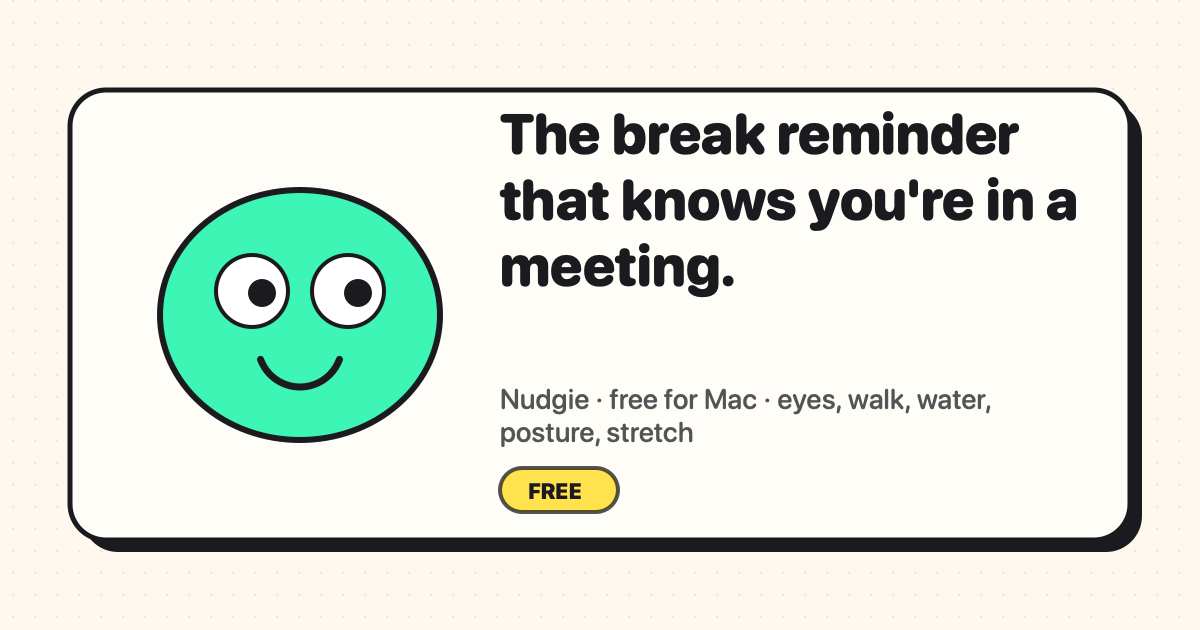
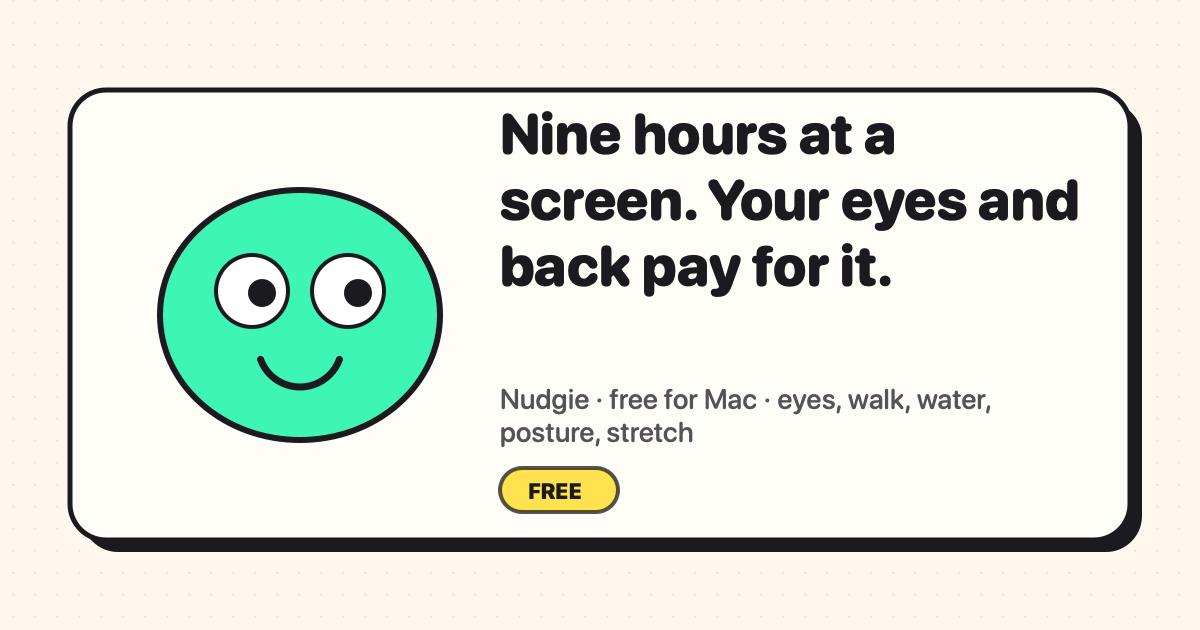
copy(site): position Nudgie as a desk health app, not a meeting-aware timer
Meeting detection is one feature, but the old headline made it the whole
promise. The page now leads with what the app actually protects -- eyes,
back, shoulders, hydration, movement -- and names the payoff at work.

- H1 and lede rewritten around the cost of a screen day.
- Each of the five nudge cards now says which part of you it is for.
- Quiet mode demoted from headline to a section on not being annoying.
- The privacy fact leads with "no health data", the claim that matters for
  a health app, and states exactly what is kept: two counts, two days.
- Title, meta description, OG tags and JSON-LD follow, keeping the
  break-reminder search terms alongside the health ones.
- Social card regenerated with the new headline.

Changed region(s): [[0.4008, 0.181, 0.8942, 0.3619], [0.4008, 0.3921, 0.74, 0.4825]]

diff --git a/site/index.html b/site/index.html
@@ -3,12 +3,12 @@
 <head>
 <meta charset="utf-8">
 <meta name="viewport" content="width=device-width, initial-scale=1">
-<title>Nudgie — free break reminder for Mac (20-20-20 eye breaks, posture, water, stretch)</title>
-<meta name="description" content="Nudgie is a free, quirky break reminder for macOS. 20-20-20 eye breaks, posture, water, walk and stretch nudges that stay quiet during meetings. Native Swift menu bar app, no account, nothing leaves your Mac. A free alternative to LookAway and Time Out.">
+<title>Nudgie — free eye strain and posture app for Mac (20-20-20 break reminders)</title>
+<meta name="description" content="Nudgie is a free macOS menu bar app that looks after your eyes, back and hydration through a long screen day. 20-20-20 eye breaks, posture, water, walk and stretch reminders, timed to the hours you are actually at the Mac and quiet during calls. Native Swift, no account, nothing leaves your Mac. A free alternative to LookAway and Time Out.">
 <link rel="canonical" href="https://gouravkakkar.github.io/nudgie/">
 <meta property="og:type" content="website">
-<meta property="og:title" content="Nudgie — the break reminder that knows you're in a meeting">
-<meta property="og:description" content="Free macOS menu bar app. Eyes, walk, water, posture and stretch nudges that count only real screen time and stay quiet when your camera or mic is on.">
+<meta property="og:title" content="Nudgie — free desk health reminders for Mac">
+<meta property="og:description" content="Eyes, back, shoulders, water, legs. Five small nudges timed to the hours you are actually at the Mac, and quiet when your camera or mic is on. Free and native.">
 <meta property="og:url" content="https://gouravkakkar.github.io/nudgie/">
 <meta property="og:image" content="https://gouravkakkar.github.io/nudgie/og.png">
 <meta name="twitter:card" content="summary_large_image">
@@ -17,7 +17,7 @@
 <link rel="preconnect" href="https://fonts.gstatic.com" crossorigin>
 <link href="https://fonts.googleapis.com/css2?family=Fredoka:wght@600;700&family=Nunito:wght@400;600;800&display=swap" rel="stylesheet">
 <script type="application/ld+json">
-{"@context":"https://schema.org","@type":"SoftwareApplication","name":"Nudgie","operatingSystem":"macOS 14 or later","applicationCategory":"HealthApplication","offers":{"@type":"Offer","price":"0","priceCurrency":"USD"},"downloadUrl":"https://github.com/gouravkakkar/nudgie/releases/latest/download/Nudgie.app.zip","softwareVersion":"0.1.0","author":{"@type":"Person","name":"Gourav Kakkar"},"description":"Free break reminder for macOS: 20-20-20 eye breaks, posture, water, walk and stretch nudges that stay quiet during meetings."}
+{"@context":"https://schema.org","@type":"SoftwareApplication","name":"Nudgie","operatingSystem":"macOS 14 or later","applicationCategory":"HealthApplication","offers":{"@type":"Offer","price":"0","priceCurrency":"USD"},"downloadUrl":"https://github.com/gouravkakkar/nudgie/releases/latest/download/Nudgie.app.zip","softwareVersion":"0.1.0","author":{"@type":"Person","name":"Gourav Kakkar"},"description":"Free desk health app for macOS: 20-20-20 eye breaks, posture, water, walk and stretch reminders, timed to real screen time and quiet during meetings."}
 </script>
 <style>
   :root {
@@ -206,8 +206,8 @@
       Nudgie
     </a>
     <nav aria-label="Page">
-      <a href="#nudges">What it nudges</a>
-      <a href="#quiet">Meetings</a>
+      <a href="#nudges">What it looks after</a>
+      <a href="#quiet">Never interrupts</a>
       <a href="#install">Install</a>
       <a href="https://github.com/gouravkakkar/nudgie">GitHub</a>
     </nav>
@@ -216,8 +216,8 @@
   <section class="hero">
     <div>
       <span class="eyebrow">Free · macOS 14+ · Apple Silicon and Intel</span>
-      <h1>The break reminder that knows you're in a meeting.</h1>
-      <p class="lede">Nudgie sits in your menu bar and nudges you to rest your eyes, stand up, drink water, sit straight and stretch. It counts only the time you're actually at the Mac, and it goes quiet when your camera or mic is on.</p>
+      <h1>Nine hours at a screen. Your eyes and back pay for it.</h1>
+      <p class="lede">Nudgie is a tiny menu bar app that looks after the parts of you a desk job wears down &mdash; eyes, back, shoulders, water, legs. Five small nudges, timed to the hours you're actually at the Mac, so you finish the day with something left.</p>
       <div class="cta">
         <a class="btn" href="https://github.com/gouravkakkar/nudgie/releases/latest/download/Nudgie.app.zip">⬇ Download for Mac</a>
         <a class="btn ghost" href="https://github.com/gouravkakkar/nudgie">View the code</a>
@@ -260,20 +260,22 @@
   </section>
 
   <section id="nudges">
-    <h2>Five nudges. Turn off any of them.</h2>
+    <h2>Five things a desk day wears down.</h2>
+    <p class="fine">Turn any of them off, or change how often it asks. Nothing here is compulsory.</p>
     <div class="nudges">
-      <div class="nudge sticker" style="background:#3DF5B4;color:#1B1B1F"><div class="emoji">👀</div><h3>Eyes</h3><p style="color:rgba(27,27,31,.75)">The 20-20-20 rule: look at something 20 feet away for 20 seconds.</p><span class="every">every 20 min</span></div>
-      <div class="nudge sticker" style="background:#4DB8FF;color:#1B1B1F"><div class="emoji">💧</div><h3>Water</h3><p style="color:rgba(27,27,31,.75)">A glass, not a sip. Plants get watered. So should you.</p><span class="every">every 45 min</span></div>
-      <div class="nudge sticker" style="background:#FF8C42;color:#1B1B1F"><div class="emoji">🚶</div><h3>Walk</h3><p style="color:rgba(27,27,31,.75)">Three minutes on your feet. Your chair needs some alone time.</p><span class="every">every 60 min</span></div>
-      <div class="nudge sticker" style="background:#FF6FB5;color:#1B1B1F"><div class="emoji">🪑</div><h3>Posture</h3><p style="color:rgba(27,27,31,.75)">Shoulders back, screen at eye level. You're doing the shrimp again.</p><span class="every">every 30 min</span></div>
-      <div class="nudge sticker" style="background:#FFE24D;color:#1B1B1F"><div class="emoji">🙆</div><h3>Stretch</h3><p style="color:rgba(27,27,31,.75)">Neck, shoulders, wrists. One minute, and your 5 pm self says thanks.</p><span class="every">every 60 min</span></div>
+      <div class="nudge sticker" style="background:#3DF5B4;color:#1B1B1F"><div class="emoji">👀</div><h3>Eyes</h3><p style="color:rgba(27,27,31,.75)">The 20-20-20 rule, the one your optometrist keeps mentioning: every 20 minutes, look 20 feet away for 20 seconds. It is what stops the dry, gritty, end-of-day eyes.</p><span class="every">every 20 min</span></div>
+      <div class="nudge sticker" style="background:#4DB8FF;color:#1B1B1F"><div class="emoji">💧</div><h3>Water</h3><p style="color:rgba(27,27,31,.75)">A glass, not a sip. Being a little short on water turns up as a headache and a foggy afternoon long before it turns up as thirst.</p><span class="every">every 45 min</span></div>
+      <div class="nudge sticker" style="background:#FF8C42;color:#1B1B1F"><div class="emoji">🚶</div><h3>Walk</h3><p style="color:rgba(27,27,31,.75)">Three minutes on your feet. It is the hour of not moving that your back objects to, not the chair. Your chair needs some alone time anyway.</p><span class="every">every 60 min</span></div>
+      <div class="nudge sticker" style="background:#FF6FB5;color:#1B1B1F"><div class="emoji">🪑</div><h3>Posture</h3><p style="color:rgba(27,27,31,.75)">Shoulders back, screen at eye level. The neck that aches at 4pm started arguing at 10am, when you began doing the shrimp.</p><span class="every">every 30 min</span></div>
+      <div class="nudge sticker" style="background:#FFE24D;color:#1B1B1F"><div class="emoji">🙆</div><h3>Stretch</h3><p style="color:rgba(27,27,31,.75)">Neck, shoulders, wrists &mdash; the three that stiffen from holding one shape all day. One minute, and your 5pm self says thanks.</p><span class="every">every 60 min</span></div>
     </div>
   </section>
 
   <section id="quiet">
     <div class="two">
       <div class="panel sticker">
-        <h2>Quiet when it matters.</h2>
+        <h2>It never lands mid-sentence.</h2>
+        <p class="fine">A health reminder you mute on day two is worth nothing. So Nudgie waits.</p>
         <ul class="rules">
           <li><span class="ic" style="background:#FF6FB5">📷</span><div><b>Camera or mic in use</b><span>Any app, any call. Nudgie only reads an "is this device busy" flag, so there is no permission prompt and no recording.</span></div></li>
           <li><span class="ic" style="background:#4DB8FF">🖥</span><div><b>A browser or meeting app in front</b><span>Safari, Chrome, Arc, Firefox, Zoom, Teams, Slack, FaceTime, Webex, Discord. Edit the list.</span></div></li>
@@ -291,7 +293,7 @@
 
   <section>
     <div class="facts">
-      <div class="fact sticker"><h3>Private by design</h3><p>No account, no analytics, no network calls. Your settings live in your Mac's user defaults and nowhere else.</p></div>
+      <div class="fact sticker"><h3>No health data, anywhere</h3><p>No account, no analytics, no network calls. Nudgie keeps two numbers &mdash; breaks taken and snoozed, today and yesterday &mdash; in your Mac's user defaults, and throws the rest away.</p></div>
       <div class="fact sticker"><h3>Native, not a web page in a box</h3><p>Written in Swift for macOS. No Electron, no background helpers, no permission prompts. Roughly a hundredth the size.</p></div>
       <div class="fact sticker"><h3>Free and source-available</h3><p>Use it at home or at work, read the code, change it, share it. Only the author may sell it (PolyForm Shield 1.0.0).</p></div>
     </div>
@@ -312,7 +314,7 @@
   </section>
 
   <section>
-    <p class="compare">Looking for a free alternative to LookAway (from $19) or Time Out's paid unlocks, or a native, lighter alternative to Stretchly? That's Nudgie. Free break reminder for Mac, 20-20-20 rule app, posture reminder, water reminder, stand-up reminder, all in one menu bar app.</p>
+    <p class="compare">Screen time is the job now, and eye strain, a stiff neck and a forgotten water bottle come with it. Nudgie is a free desk health app for Mac that handles the lot from one menu bar icon: 20-20-20 eye strain reminders, posture reminders, hydration reminders, stand-up and stretch breaks. A free alternative to LookAway (from $19) and Time Out's paid unlocks, and a native, lighter alternative to Stretchly.</p>
   </section>
 
   <footer>

diff --git a/tools/make-social-card.swift b/tools/make-social-card.swift
@@ -54,7 +54,7 @@ smile.lineWidth = 7; smile.lineCapStyle = .round; smile.stroke()
 let paragraph = NSMutableParagraphStyle(); paragraph.lineBreakMode = .byWordWrapping
 let titleFont = NSFont.systemFont(ofSize: 56, weight: .heavy)
 let rounded = NSFont(descriptor: titleFont.fontDescriptor.withDesign(.rounded) ?? titleFont.fontDescriptor, size: 56) ?? titleFont
-let title = NSAttributedString(string: "The break reminder that knows you're in a meeting.",
+let title = NSAttributedString(string: "Nine hours at a screen. Your eyes and back pay for it.",
                                attributes: [.font: rounded, .foregroundColor: ink, .paragraphStyle: paragraph])
 title.draw(in: NSRect(x: 500, y: 250, width: 590, height: 280))
 
